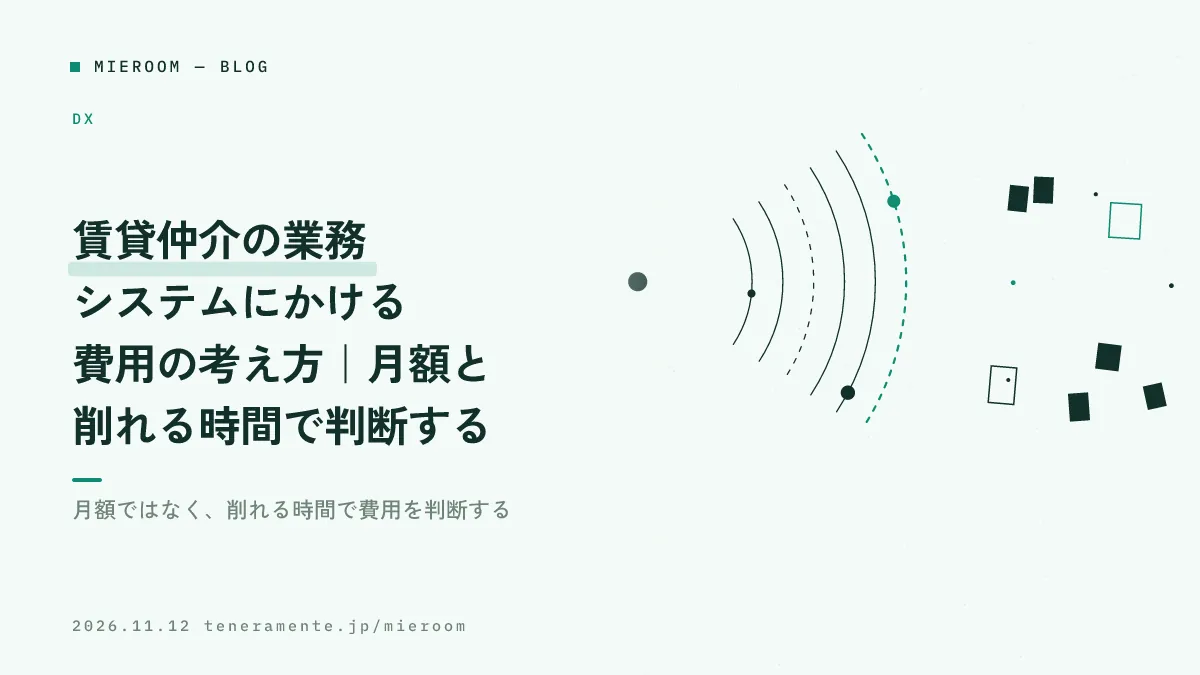
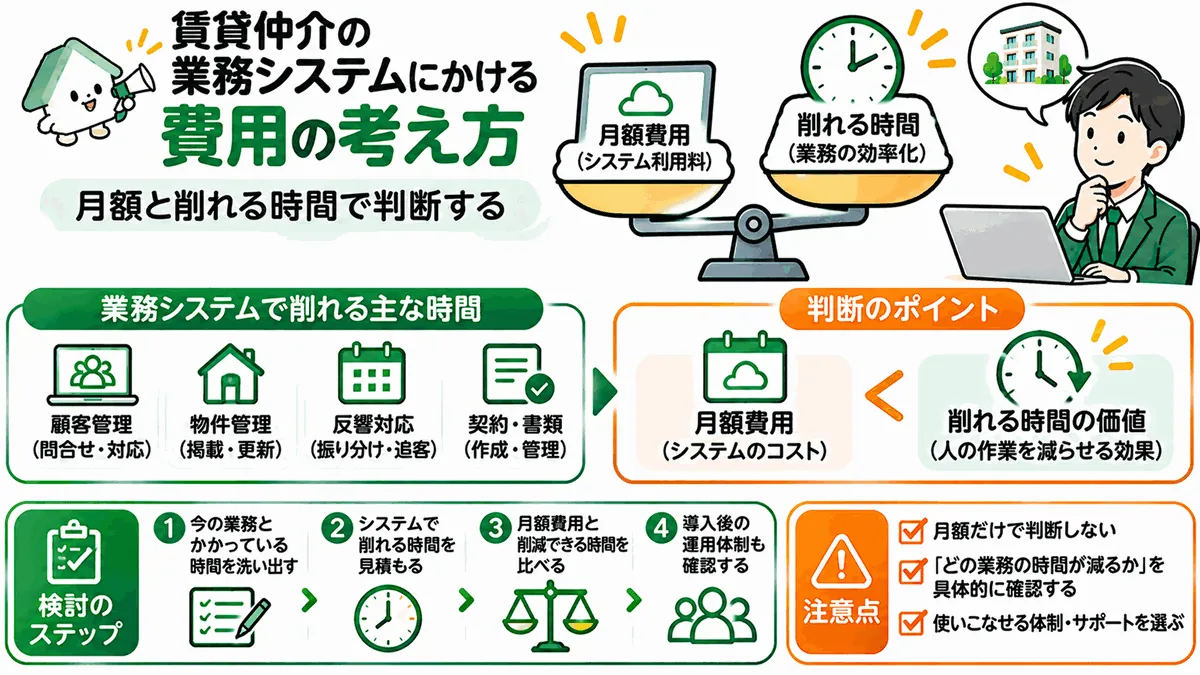
covers: 記事のトップ画像を ChatGPT の画像に差し替え（m107・m118・m110）

diff --git a/mieroom/articles/chintai-gyomu-system-hiyo-kangaekata.html b/mieroom/articles/chintai-gyomu-system-hiyo-kangaekata.html
@@ -13,12 +13,15 @@
 <meta property="og:description" content="賃貸仲介の店舗が業務システムにいくらまでかけてよいかを、月額と削れる時間の両面から整理しました。費用を導入時・毎月・やめるときに分けて見る方法、時間の測り方、見積もりで確かめる項目、効果が出ない使い方までまとめています。">
 <meta property="og:url" content="https://mieroom.cloud/articles/chintai-gyomu-system-hiyo-kangaekata.html">
 <meta property="og:site_name" content="ミエルーム">
+<meta property="og:image" content="https://mieroom.cloud/assets/covers/chintai-gyomu-system-hiyo-kangaekata.png">
+<meta property="og:image:width" content="1200">
+<meta property="og:image:height" content="675">
 <meta name="twitter:card" content="summary_large_image">
 <link rel="preconnect" href="https://fonts.googleapis.com">
 <link rel="preconnect" href="https://fonts.gstatic.com" crossorigin>
 <link href="https://fonts.googleapis.com/css2?family=Noto+Sans+JP:wght@400;500;700;900&family=Zen+Kaku+Gothic+New:wght@500;700;900&display=swap" rel="stylesheet">
 <link rel="stylesheet" href="../assets/site.css">
-<script type="application/ld+json">{"@context":"https://schema.org","@graph":[{"@type":"BlogPosting","headline":"賃貸仲介の業務システムにかける費用の考え方｜月額と削れる時間で判断する","description":"賃貸仲介の店舗が業務システムにいくらまでかけてよいかを、月額と削れる時間の両面から整理しました。費用を導入時・毎月・やめるときに分けて見る方法、時間の測り方、見積もりで確かめる項目、効果が出ない使い方までまとめています。","datePublished":"2026-11-12","dateModified":"2026-11-12","inLanguage":"ja","mainEntityOfPage":"https://mieroom.cloud/articles/chintai-gyomu-system-hiyo-kangaekata.html","articleSection":"DX","author":{"@type":"Organization","name":"ミエルーム編集部"},"publisher":{"@type":"Organization","name":"株式会社TENERAMENTE","logo":{"@type":"ImageObject","url":"https://teneramente.jp/assets/img/favicon-512.png"}},"keywords":"業務システム, 費用, DX, 業務効率化, 賃貸仲介"},{"@type":"BreadcrumbList","itemListElement":[{"@type":"ListItem","position":1,"name":"ミエルーム","item":"https://mieroom.cloud/"},{"@type":"ListItem","position":2,"name":"ブログ","item":"https://mieroom.cloud/blog.html"},{"@type":"ListItem","position":3,"name":"賃貸仲介の業務システムにかける費用の考え方｜月額と削れる時間で判断する","item":"https://mieroom.cloud/articles/chintai-gyomu-system-hiyo-kangaekata.html"}]},{"@type":"FAQPage","mainEntity":[{"@type":"Question","name":"店舗が1つで、スタッフも少ない場合は導入しないほうがよいですか？","acceptedAnswer":{"@type":"Answer","text":"人数の少なさは理由になりません。判断の基準は、同じ情報を2回以上書いている作業があるか、月末の集計に時間を取られているかです。該当するなら、人数が少ない店舗でも手間は減ります。逆に、台帳が1つで共有に困っていないなら、急いで変える必要はありません。"}},{"@type":"Question","name":"無料で使えるツールと比べて、費用をかける意味はありますか？","acceptedAnswer":{"@type":"Answer","text":"比べる軸は金額ではなく、業務に合う形で記録が残るかどうかです。無料の表計算でも記録はできますが、入力の形式を自分たちで保つ必要があり、人が増えると崩れやすくなります。入力の形が決まっていて、入れた情報がそのまま集計や分析に回る形かどうかで判断してください。"}},{"@type":"Question","name":"導入してから効果を確かめるには、何を見ればよいですか？","acceptedAnswer":{"@type":"Answer","text":"導入前に測った作業時間を、同じ方法でもう一度測ってください。見るのは、入力の回数と、月末の集計にかかった時間です。あわせて、紙やExcelが並行して残っていないかも確かめます。並行して残っている作業があるなら、そこが定着していない部分です。"}},{"@type":"Question","name":"繁忙期に導入を始めても大丈夫ですか？","acceptedAnswer":{"@type":"Answer","text":"初期設定とデータの取り込みに手が要るので、繁忙期の真ん中から全部を始めるのは避けたほうが進みます。始めるなら、反響の記録のように毎日発生する1つの作業だけを移し、残りは落ち着いてから足す形にしてください。繁忙期前の準備は繁忙期前の準備チェックリストにまとめています。"}},{"@type":"Question","name":"既存のExcelのデータは引き継げますか？","acceptedAnswer":{"@type":"Answer","text":"取り込みに対応しているかどうかは、検討の段階で必ず確かめてください。対応していても、列の並びや項目名を整える作業は発生します。見積もりを取るときに、整える作業をどちらがやるのかまで決めておくと、導入の予定が崩れません。"}}]}]}</script>
+<script type="application/ld+json">{"@context":"https://schema.org","@graph":[{"@type":"BlogPosting","headline":"賃貸仲介の業務システムにかける費用の考え方｜月額と削れる時間で判断する","description":"賃貸仲介の店舗が業務システムにいくらまでかけてよいかを、月額と削れる時間の両面から整理しました。費用を導入時・毎月・やめるときに分けて見る方法、時間の測り方、見積もりで確かめる項目、効果が出ない使い方までまとめています。","datePublished":"2026-11-12","dateModified":"2026-11-12","inLanguage":"ja","mainEntityOfPage":"https://mieroom.cloud/articles/chintai-gyomu-system-hiyo-kangaekata.html","image":"https://mieroom.cloud/assets/covers/chintai-gyomu-system-hiyo-kangaekata.png","articleSection":"DX","author":{"@type":"Organization","name":"ミエルーム編集部"},"publisher":{"@type":"Organization","name":"株式会社TENERAMENTE","logo":{"@type":"ImageObject","url":"https://teneramente.jp/assets/img/favicon-512.png"}},"keywords":"業務システム, 費用, DX, 業務効率化, 賃貸仲介"},{"@type":"BreadcrumbList","itemListElement":[{"@type":"ListItem","position":1,"name":"ミエルーム","item":"https://mieroom.cloud/"},{"@type":"ListItem","position":2,"name":"ブログ","item":"https://mieroom.cloud/blog.html"},{"@type":"ListItem","position":3,"name":"賃貸仲介の業務システムにかける費用の考え方｜月額と削れる時間で判断する","item":"https://mieroom.cloud/articles/chintai-gyomu-system-hiyo-kangaekata.html"}]},{"@type":"FAQPage","mainEntity":[{"@type":"Question","name":"店舗が1つで、スタッフも少ない場合は導入しないほうがよいですか？","acceptedAnswer":{"@type":"Answer","text":"人数の少なさは理由になりません。判断の基準は、同じ情報を2回以上書いている作業があるか、月末の集計に時間を取られているかです。該当するなら、人数が少ない店舗でも手間は減ります。逆に、台帳が1つで共有に困っていないなら、急いで変える必要はありません。"}},{"@type":"Question","name":"無料で使えるツールと比べて、費用をかける意味はありますか？","acceptedAnswer":{"@type":"Answer","text":"比べる軸は金額ではなく、業務に合う形で記録が残るかどうかです。無料の表計算でも記録はできますが、入力の形式を自分たちで保つ必要があり、人が増えると崩れやすくなります。入力の形が決まっていて、入れた情報がそのまま集計や分析に回る形かどうかで判断してください。"}},{"@type":"Question","name":"導入してから効果を確かめるには、何を見ればよいですか？","acceptedAnswer":{"@type":"Answer","text":"導入前に測った作業時間を、同じ方法でもう一度測ってください。見るのは、入力の回数と、月末の集計にかかった時間です。あわせて、紙やExcelが並行して残っていないかも確かめます。並行して残っている作業があるなら、そこが定着していない部分です。"}},{"@type":"Question","name":"繁忙期に導入を始めても大丈夫ですか？","acceptedAnswer":{"@type":"Answer","text":"初期設定とデータの取り込みに手が要るので、繁忙期の真ん中から全部を始めるのは避けたほうが進みます。始めるなら、反響の記録のように毎日発生する1つの作業だけを移し、残りは落ち着いてから足す形にしてください。繁忙期前の準備は繁忙期前の準備チェックリストにまとめています。"}},{"@type":"Question","name":"既存のExcelのデータは引き継げますか？","acceptedAnswer":{"@type":"Answer","text":"取り込みに対応しているかどうかは、検討の段階で必ず確かめてください。対応していても、列の並びや項目名を整える作業は発生します。見積もりを取るときに、整える作業をどちらがやるのかまで決めておくと、導入の予定が崩れません。"}}]}]}</script>
 <style id="mp-nav-fit">
 /* 狭い画面ではヘッダーのボタンを小さくして、右にはみ出さないようにする */
 @media (max-width: 640px) {
@@ -72,7 +75,9 @@
     </div>
   </div>
 </section>
-
+<div class="post-cover">
+  <div class="band band--img"><img src="../assets/covers/chintai-gyomu-system-hiyo-kangaekata.webp" alt="賃貸仲介の業務システムにかける費用の考え方｜月額と削れる時間で判断する" width="1200" height="675" decoding="async"></div>
+</div>
 <div class="post-body">
 <p>業務システムの導入を検討すると、まず目に入るのは月額です。しかし月額だけを並べて安い順に選ぶと、入れたのに使われない、という結果になりやすいものです。判断の基準は、<strong>その金額で店舗のどの作業が何分減るか</strong>に置いてください。</p>
 <div class="conclusion"><h4>この記事の結論</h4><p>業務システムの費用は、月額の大小ではなく<strong>削れる作業時間と、店舗の人件費のバランス</strong>で判断します。そのためには、見積もりを集める前に「今どの作業に毎月どれだけ時間を使っているか」を測る必要があります。測っていない状態では、どの金額が高いのか安いのかも決まりません。</p></div>

diff --git a/mieroom/articles/tencho-maiasa-suji.html b/mieroom/articles/tencho-maiasa-suji.html
@@ -13,12 +13,15 @@
 <meta property="og:description" content="賃貸仲介の店長が毎朝確認する数字を6つに絞り、1画面に並べる順番と、数字の定義を店の中で固定する手順をまとめました。毎朝5分で終わらせる見方と、よくある失敗の避け方も整理しています。">
 <meta property="og:url" content="https://mieroom.cloud/articles/tencho-maiasa-suji.html">
 <meta property="og:site_name" content="ミエルーム">
+<meta property="og:image" content="https://mieroom.cloud/assets/covers/tencho-maiasa-suji.png">
+<meta property="og:image:width" content="1200">
+<meta property="og:image:height" content="675">
 <meta name="twitter:card" content="summary_large_image">
 <link rel="preconnect" href="https://fonts.googleapis.com">
 <link rel="preconnect" href="https://fonts.gstatic.com" crossorigin>
 <link href="https://fonts.googleapis.com/css2?family=Noto+Sans+JP:wght@400;500;700;900&family=Zen+Kaku+Gothic+New:wght@500;700;900&display=swap" rel="stylesheet">
 <link rel="stylesheet" href="../assets/site.css">
-<script type="application/ld+json">{"@context":"https://schema.org","@graph":[{"@type":"BlogPosting","headline":"賃貸仲介の店長が毎朝見るべき数字｜売上と反響を1画面にまとめる方法","description":"賃貸仲介の店長が毎朝確認する数字を6つに絞り、1画面に並べる順番と、数字の定義を店の中で固定する手順をまとめました。毎朝5分で終わらせる見方と、よくある失敗の避け方も整理しています。","datePublished":"2026-11-13","dateModified":"2026-11-13","inLanguage":"ja","mainEntityOfPage":"https://mieroom.cloud/articles/tencho-maiasa-suji.html","articleSection":"売上管理","author":{"@type":"Organization","name":"ミエルーム編集部"},"publisher":{"@type":"Organization","name":"株式会社TENERAMENTE","logo":{"@type":"ImageObject","url":"https://teneramente.jp/assets/img/favicon-512.png"}},"keywords":"店長, 数字管理, 売上管理, 反響管理, 賃貸仲介"},{"@type":"BreadcrumbList","itemListElement":[{"@type":"ListItem","position":1,"name":"ミエルーム","item":"https://mieroom.cloud/"},{"@type":"ListItem","position":2,"name":"ブログ","item":"https://mieroom.cloud/blog.html"},{"@type":"ListItem","position":3,"name":"賃貸仲介の店長が毎朝見るべき数字｜売上と反響を1画面にまとめる方法","item":"https://mieroom.cloud/articles/tencho-maiasa-suji.html"}]},{"@type":"FAQPage","mainEntity":[{"@type":"Question","name":"朝の確認は何時にやるのがよいですか？","acceptedAnswer":{"@type":"Answer","text":"開店前の、電話が鳴らない時間に固定するのが続きます。時刻そのものより、毎日同じ時間にやることが大事です。朝礼の直前に置くと、決めたことをそのまま共有できます。"}},{"@type":"Question","name":"スタッフが少ない店舗でも6つ全部見る必要がありますか？","acceptedAnswer":{"@type":"Answer","text":"一人で店を回している場合は、未対応の反響・本日の来店・進行中の申込の3つから始めて構いません。入金と売上は週1回でも間に合います。件数が増えて把握しきれなくなった時点で6つに広げてください。"}},{"@type":"Question","name":"数字の入力をスタッフに任せると、抜けが出ます。","acceptedAnswer":{"@type":"Answer","text":"入力する項目が多いと抜けます。朝の6つを出すために本当に必要な項目だけに絞り、それ以外は任意にしてください。入力のタイミングを「接客が終わったらその場で」と決めるのも効きます。"}},{"@type":"Question","name":"反響の経路別の件数は、どこまで細かく分けますか？","acceptedAnswer":{"@type":"Answer","text":"手を打てる単位で分けます。ポータルサイトごと、電話、来店、紹介あたりが実用的です。それ以上細かくすると、入力の手間が増えるだけで朝の判断は変わりません。"}},{"@type":"Question","name":"売上の見込みはどう計算すればよいですか？","acceptedAnswer":{"@type":"Answer","text":"確定していない案件の想定金額を足したものを見込みとして、確定売上とは別に表示します。確度で割り引く方法もありますが、朝の判断では「確定」と「それ以外」の2つに分かれているだけで足ります。"}}]}]}</script>
+<script type="application/ld+json">{"@context":"https://schema.org","@graph":[{"@type":"BlogPosting","headline":"賃貸仲介の店長が毎朝見るべき数字｜売上と反響を1画面にまとめる方法","description":"賃貸仲介の店長が毎朝確認する数字を6つに絞り、1画面に並べる順番と、数字の定義を店の中で固定する手順をまとめました。毎朝5分で終わらせる見方と、よくある失敗の避け方も整理しています。","datePublished":"2026-11-13","dateModified":"2026-11-13","inLanguage":"ja","mainEntityOfPage":"https://mieroom.cloud/articles/tencho-maiasa-suji.html","image":"https://mieroom.cloud/assets/covers/tencho-maiasa-suji.png","articleSection":"売上管理","author":{"@type":"Organization","name":"ミエルーム編集部"},"publisher":{"@type":"Organization","name":"株式会社TENERAMENTE","logo":{"@type":"ImageObject","url":"https://teneramente.jp/assets/img/favicon-512.png"}},"keywords":"店長, 数字管理, 売上管理, 反響管理, 賃貸仲介"},{"@type":"BreadcrumbList","itemListElement":[{"@type":"ListItem","position":1,"name":"ミエルーム","item":"https://mieroom.cloud/"},{"@type":"ListItem","position":2,"name":"ブログ","item":"https://mieroom.cloud/blog.html"},{"@type":"ListItem","position":3,"name":"賃貸仲介の店長が毎朝見るべき数字｜売上と反響を1画面にまとめる方法","item":"https://mieroom.cloud/articles/tencho-maiasa-suji.html"}]},{"@type":"FAQPage","mainEntity":[{"@type":"Question","name":"朝の確認は何時にやるのがよいですか？","acceptedAnswer":{"@type":"Answer","text":"開店前の、電話が鳴らない時間に固定するのが続きます。時刻そのものより、毎日同じ時間にやることが大事です。朝礼の直前に置くと、決めたことをそのまま共有できます。"}},{"@type":"Question","name":"スタッフが少ない店舗でも6つ全部見る必要がありますか？","acceptedAnswer":{"@type":"Answer","text":"一人で店を回している場合は、未対応の反響・本日の来店・進行中の申込の3つから始めて構いません。入金と売上は週1回でも間に合います。件数が増えて把握しきれなくなった時点で6つに広げてください。"}},{"@type":"Question","name":"数字の入力をスタッフに任せると、抜けが出ます。","acceptedAnswer":{"@type":"Answer","text":"入力する項目が多いと抜けます。朝の6つを出すために本当に必要な項目だけに絞り、それ以外は任意にしてください。入力のタイミングを「接客が終わったらその場で」と決めるのも効きます。"}},{"@type":"Question","name":"反響の経路別の件数は、どこまで細かく分けますか？","acceptedAnswer":{"@type":"Answer","text":"手を打てる単位で分けます。ポータルサイトごと、電話、来店、紹介あたりが実用的です。それ以上細かくすると、入力の手間が増えるだけで朝の判断は変わりません。"}},{"@type":"Question","name":"売上の見込みはどう計算すればよいですか？","acceptedAnswer":{"@type":"Answer","text":"確定していない案件の想定金額を足したものを見込みとして、確定売上とは別に表示します。確度で割り引く方法もありますが、朝の判断では「確定」と「それ以外」の2つに分かれているだけで足ります。"}}]}]}</script>
 <style id="mp-nav-fit">
 /* 狭い画面ではヘッダーのボタンを小さくして、右にはみ出さないようにする */
 @media (max-width: 640px) {
@@ -72,7 +75,9 @@
     </div>
   </div>
 </section>
-
+<div class="post-cover">
+  <div class="band band--img"><img src="../assets/covers/tencho-maiasa-suji.webp" alt="賃貸仲介の店長が毎朝見るべき数字｜売上と反響を1画面にまとめる方法" width="1200" height="675" decoding="async"></div>
+</div>
 <div class="post-body">
 <p>毎朝、何の数字を見ればいいか決まっていないと、店長の朝は「昨日どうだった？」と聞くことから始まります。聞いた答えは記憶に残らず、月末になって初めて差に気づきます。<strong>毎朝見る数字を6つに絞り、同じ並びで同じ順番に見る</strong>と決めるだけで、気づくのが3週間早くなります。</p>
 <div class="conclusion"><h4>この記事の結論</h4><p>毎朝見る数字は、増やすのではなく<strong>入口から出口の順に6つへ絞る</strong>のが続きます。前日の反響、未対応の反響、本日の来店予約、進行中の申込、入金・ADの未確認、今月の確定売上と見込み。この6つを同じ画面で同じ順に見れば、朝の確認は5分で終わります。</p></div>

diff --git a/mieroom/articles/portal-hankyo-fuyasu.html b/mieroom/articles/portal-hankyo-fuyasu.html
@@ -13,12 +13,15 @@
 <meta property="og:description" content="ポータルサイトの反響が少ないときに、どこから手を入れるかを順番で整理しました。掲載できている物件の数と鮮度、1枚目の写真、コメント欄、検索条件の入力という4段階の見直し方と、原因の切り分け、毎週の確認項目までまとめています。">
 <meta property="og:url" content="https://mieroom.cloud/articles/portal-hankyo-fuyasu.html">
 <meta property="og:site_name" content="ミエルーム">
+<meta property="og:image" content="https://mieroom.cloud/assets/covers/portal-hankyo-fuyasu.png">
+<meta property="og:image:width" content="1200">
+<meta property="og:image:height" content="675">
 <meta name="twitter:card" content="summary_large_image">
 <link rel="preconnect" href="https://fonts.googleapis.com">
 <link rel="preconnect" href="https://fonts.gstatic.com" crossorigin>
 <link href="https://fonts.googleapis.com/css2?family=Noto+Sans+JP:wght@400;500;700;900&family=Zen+Kaku+Gothic+New:wght@500;700;900&display=swap" rel="stylesheet">
 <link rel="stylesheet" href="../assets/site.css">
-<script type="application/ld+json">{"@context":"https://schema.org","@graph":[{"@type":"BlogPosting","headline":"ポータルサイトの反響を増やす方法｜掲載物件・写真・コメントを見直す順番","description":"ポータルサイトの反響が少ないときに、どこから手を入れるかを順番で整理しました。掲載できている物件の数と鮮度、1枚目の写真、コメント欄、検索条件の入力という4段階の見直し方と、原因の切り分け、毎週の確認項目までまとめています。","datePublished":"2026-11-11","dateModified":"2026-11-11","inLanguage":"ja","mainEntityOfPage":"https://mieroom.cloud/articles/portal-hankyo-fuyasu.html","articleSection":"集客・広告","author":{"@type":"Organization","name":"ミエルーム編集部"},"publisher":{"@type":"Organization","name":"株式会社TENERAMENTE","logo":{"@type":"ImageObject","url":"https://teneramente.jp/assets/img/favicon-512.png"}},"keywords":"ポータルサイト, 反響, 集客, 物件写真, 賃貸仲介"},{"@type":"BreadcrumbList","itemListElement":[{"@type":"ListItem","position":1,"name":"ミエルーム","item":"https://mieroom.cloud/"},{"@type":"ListItem","position":2,"name":"ブログ","item":"https://mieroom.cloud/blog.html"},{"@type":"ListItem","position":3,"name":"ポータルサイトの反響を増やす方法｜掲載物件・写真・コメントを見直す順番","item":"https://mieroom.cloud/articles/portal-hankyo-fuyasu.html"}]},{"@type":"FAQPage","mainEntity":[{"@type":"Question","name":"掲載物件は多いほど反響が増えますか？","acceptedAnswer":{"@type":"Answer","text":"件数は反響の上限を決めますが、更新が止まった物件や成約済みの物件が混ざると、来店につながらない反響が増えます。増やすのと同時に、下げる作業と更新する作業を回してください。"}},{"@type":"Question","name":"写真は何枚あればよいですか？","acceptedAnswer":{"@type":"Answer","text":"枚数の正解はありませんが、居室・水回り・収納・玄関・外観・共用部・周辺の種類がそろっているかで判断してください。種類が欠けている物件は、枚数だけ足しても判断材料になりません。"}},{"@type":"Question","name":"コメント欄はどのくらいの長さが適切ですか？","acceptedAnswer":{"@type":"Answer","text":"長さより中身です。検索条件に書いていないことを2〜3点書けていれば、短くても役に立ちます。条件の言い換えで長くなっている文章は、短くしたほうが読まれます。"}},{"@type":"Question","name":"どの媒体を使うかはどう決めればよいですか？","acceptedAnswer":{"@type":"Answer","text":"反響数だけでなく、来店と成約まで媒体別に記録して比べます。反響が多い媒体が、利益の残る媒体とは限りません。記録が無い状態では比べられないので、まず媒体を記録する項目を作るところから始めます。"}},{"@type":"Question","name":"見直しは誰が担当すべきですか？","acceptedAnswer":{"@type":"Answer","text":"入力する人と点検する人を分けると漏れが減ります。入力は担当者ごと、公開前の点検は1人に固定する形が回しやすいです。"}}]}]}</script>
+<script type="application/ld+json">{"@context":"https://schema.org","@graph":[{"@type":"BlogPosting","headline":"ポータルサイトの反響を増やす方法｜掲載物件・写真・コメントを見直す順番","description":"ポータルサイトの反響が少ないときに、どこから手を入れるかを順番で整理しました。掲載できている物件の数と鮮度、1枚目の写真、コメント欄、検索条件の入力という4段階の見直し方と、原因の切り分け、毎週の確認項目までまとめています。","datePublished":"2026-11-11","dateModified":"2026-11-11","inLanguage":"ja","mainEntityOfPage":"https://mieroom.cloud/articles/portal-hankyo-fuyasu.html","image":"https://mieroom.cloud/assets/covers/portal-hankyo-fuyasu.png","articleSection":"集客・広告","author":{"@type":"Organization","name":"ミエルーム編集部"},"publisher":{"@type":"Organization","name":"株式会社TENERAMENTE","logo":{"@type":"ImageObject","url":"https://teneramente.jp/assets/img/favicon-512.png"}},"keywords":"ポータルサイト, 反響, 集客, 物件写真, 賃貸仲介"},{"@type":"BreadcrumbList","itemListElement":[{"@type":"ListItem","position":1,"name":"ミエルーム","item":"https://mieroom.cloud/"},{"@type":"ListItem","position":2,"name":"ブログ","item":"https://mieroom.cloud/blog.html"},{"@type":"ListItem","position":3,"name":"ポータルサイトの反響を増やす方法｜掲載物件・写真・コメントを見直す順番","item":"https://mieroom.cloud/articles/portal-hankyo-fuyasu.html"}]},{"@type":"FAQPage","mainEntity":[{"@type":"Question","name":"掲載物件は多いほど反響が増えますか？","acceptedAnswer":{"@type":"Answer","text":"件数は反響の上限を決めますが、更新が止まった物件や成約済みの物件が混ざると、来店につながらない反響が増えます。増やすのと同時に、下げる作業と更新する作業を回してください。"}},{"@type":"Question","name":"写真は何枚あればよいですか？","acceptedAnswer":{"@type":"Answer","text":"枚数の正解はありませんが、居室・水回り・収納・玄関・外観・共用部・周辺の種類がそろっているかで判断してください。種類が欠けている物件は、枚数だけ足しても判断材料になりません。"}},{"@type":"Question","name":"コメント欄はどのくらいの長さが適切ですか？","acceptedAnswer":{"@type":"Answer","text":"長さより中身です。検索条件に書いていないことを2〜3点書けていれば、短くても役に立ちます。条件の言い換えで長くなっている文章は、短くしたほうが読まれます。"}},{"@type":"Question","name":"どの媒体を使うかはどう決めればよいですか？","acceptedAnswer":{"@type":"Answer","text":"反響数だけでなく、来店と成約まで媒体別に記録して比べます。反響が多い媒体が、利益の残る媒体とは限りません。記録が無い状態では比べられないので、まず媒体を記録する項目を作るところから始めます。"}},{"@type":"Question","name":"見直しは誰が担当すべきですか？","acceptedAnswer":{"@type":"Answer","text":"入力する人と点検する人を分けると漏れが減ります。入力は担当者ごと、公開前の点検は1人に固定する形が回しやすいです。"}}]}]}</script>
 <style id="mp-nav-fit">
 /* 狭い画面ではヘッダーのボタンを小さくして、右にはみ出さないようにする */
 @media (max-width: 640px) {
@@ -72,7 +75,9 @@
     </div>
   </div>
 </section>
-
+<div class="post-cover">
+  <div class="band band--img"><img src="../assets/covers/portal-hankyo-fuyasu.webp" alt="ポータルサイトの反響を増やす方法｜掲載物件・写真・コメントを見直す順番" width="1200" height="675" decoding="async"></div>
+</div>
 <div class="post-body">
 <p>ポータルサイトの反響を増やすときに効くのは、掲載する物件を増やすことではありません。<strong>今載っている物件が、探している人の画面にきちんと出て、開かれているかを順番に確かめること</strong>です。順番を決めずに写真から直し始めると、そもそも検索結果に出ていなかった、という取りこぼしが残ります。</p>
 <div class="conclusion">

diff --git a/mieroom/blog.html b/mieroom/blog.html
@@ -255,7 +255,7 @@ src="https://www.facebook.com/tr?id=28086413637650888&ev=PageView&noscript=1"
       </a>
 
       <a class="bpost" data-cat="売上管理" data-text="賃貸仲介の店長が毎朝見るべき数字｜売上と反響を1画面にまとめる方法 店長 数字管理 売上管理 反響管理 賃貸仲介" href="articles/tencho-maiasa-suji.html">
-        <div class="bcover bcover--text"><span class="bct-cat">売上管理</span><b>賃貸仲介の店長が毎朝見るべき数字｜売上と反響を1画面にまとめる方法</b></div>
+        <div class="bcover bcover--img"><img src="assets/covers/tencho-maiasa-suji-card.webp" alt="賃貸仲介の店長が毎朝見るべき数字｜売上と反響を1画面にまとめる方法" loading="lazy" decoding="async" width="640" height="360"></div>
         <div class="bbody">
           <div class="bmeta"><span class="bcat">売上管理</span><span class="bdate">2026.11.13</span></div>
           <h3>賃貸仲介の店長が毎朝見るべき数字｜売上と反響を1画面にまとめる方法</h3>
@@ -265,7 +265,7 @@ src="https://www.facebook.com/tr?id=28086413637650888&ev=PageView&noscript=1"
       </a>
 
       <a class="bpost" data-cat="DX" data-text="賃貸仲介の業務システムにかける費用の考え方｜月額と削れる時間で判断する 業務システム 費用 DX 業務効率化 賃貸仲介" href="articles/chintai-gyomu-system-hiyo-kangaekata.html">
-        <div class="bcover bcover--text"><span class="bct-cat">DX</span><b>賃貸仲介の業務システムにかける費用の考え方｜月額と削れる時間で判断する</b></div>
+        <div class="bcover bcover--img"><img src="assets/covers/chintai-gyomu-system-hiyo-kangaekata-card.webp" alt="賃貸仲介の業務システムにかける費用の考え方｜月額と削れる時間で判断する" loading="lazy" decoding="async" width="640" height="360"></div>
         <div class="bbody">
           <div class="bmeta"><span class="bcat">DX</span><span class="bdate">2026.11.12</span></div>
           <h3>賃貸仲介の業務システムにかける費用の考え方｜月額と削れる時間で判断する</h3>
@@ -275,7 +275,7 @@ src="https://www.facebook.com/tr?id=28086413637650888&ev=PageView&noscript=1"
       </a>
 
       <a class="bpost" data-cat="集客・広告" data-text="ポータルサイトの反響を増やす方法｜掲載物件・写真・コメントを見直す順番 ポータルサイト 反響 集客 物件写真 賃貸仲介" href="articles/portal-hankyo-fuyasu.html">
-        <div class="bcover bcover--text"><span class="bct-cat">集客・広告</span><b>ポータルサイトの反響を増やす方法｜掲載物件・写真・コメントを見直す順番</b></div>
+        <div class="bcover bcover--img"><img src="assets/covers/portal-hankyo-fuyasu-card.webp" alt="ポータルサイトの反響を増やす方法｜掲載物件・写真・コメントを見直す順番" loading="lazy" decoding="async" width="640" height="360"></div>
         <div class="bbody">
           <div class="bmeta"><span class="bcat">集客・広告</span><span class="bdate">2026.11.11</span></div>
           <h3>ポータルサイトの反響を増やす方法｜掲載物件・写真・コメントを見直す順番</h3>
